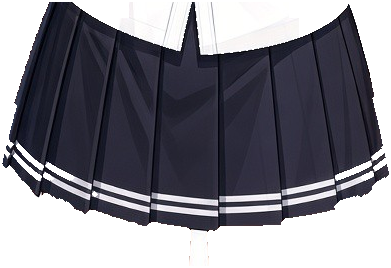
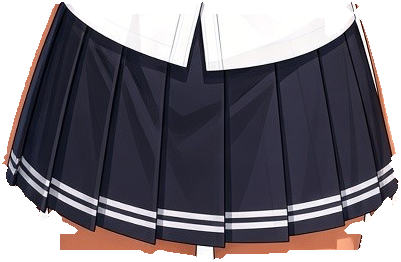
Re-cut flashing seam layers on the official idle pack.
Widen torso/bow into the shoulder caps, fill scalp under bangs, give
brow a coverage strip, extend skirt hem/crotch overlap, and restore
loafer inner edges. Other cut PNGs are unchanged. Default URL stays
the PNG puppet.

diff --git a/scripts/cut-rai-spine-layers.py b/scripts/cut-rai-spine-layers.py
@@ -30,7 +30,19 @@ STUDIO_CHROMA_MAX = 18
 FRINGE_LUMA_MIN = 224
 FRINGE_CHROMA_MAX = 24
 OVERLAP = 12  # px, within the 8–16 spec
+SEAM_OVERLAP = 16  # extra overlap for flashing joints (shoulders, hem, scalp, ankles)
 CX = 504  # idle body center (button / bow line)
+
+# Re-cut only these when seams flash — do not rewrite the rest of the pack.
+SEAM_LAYERS = [
+    "torso",
+    "bow",
+    "hair_front",
+    "brow",
+    "skirt",
+    "foot_l",
+    "foot_r",
+]
 
 REQUIRED = [
     "hair_back",
@@ -159,7 +171,62 @@ def close_holes(mask: np.ndarray, px: int = 2) -> np.ndarray:
     return ndimage.binary_closing(mask, iterations=px)
 
 
+def expand_foot_mask(orig: np.ndarray, mask: np.ndarray, x0: int, x1: int) -> np.ndarray:
+    """Include loafer pixels the studio-white fringe punch ate (inner edges)."""
+    r = orig[:, :, 0].astype(np.int16)
+    g = orig[:, :, 1].astype(np.int16)
+    b = orig[:, :, 2].astype(np.int16)
+    h, w = orig.shape[:2]
+    yy = np.arange(h)[:, None]
+    xx = np.arange(w)[None, :]
+    region = (yy >= 1592) & (yy < 1776) & (xx >= x0) & (xx < x1)
+    brown = (r > 40) & (r >= g - 8) & (r > b) & (g > 16) & (b < 135)
+    outline = (r < 95) & (g < 85) & (b < 95) & (yy > 1605)
+    return close_holes(mask | (region & (brown | outline)), 2)
+
+
+def expand_skirt_mask(orig: np.ndarray, mask: np.ndarray) -> np.ndarray:
+    """Keep hem navy + stripes, including fringe punch ate along the thigh line."""
+    r = orig[:, :, 0].astype(np.int16)
+    g = orig[:, :, 1].astype(np.int16)
+    b = orig[:, :, 2].astype(np.int16)
+    mx = np.maximum(np.maximum(r, g), b)
+    mn = np.minimum(np.minimum(r, g), b)
+    chroma = mx - mn
+    h, w = orig.shape[:2]
+    yy = np.arange(h)[:, None]
+    xx = np.arange(w)[None, :]
+    region = (yy >= 736) & (yy < 1048) & (xx > 275) & (xx < 735)
+    navy = region & (b + 12 >= r) & (mx < 105)
+    stripe = region & (yy >= 915) & (mn > 155) & (chroma < 55)
+    extra = navy | (stripe & dilate(navy, 8))
+    return close_holes(mask | extra, 3)
+
+
+def restore_from_original(orig: np.ndarray, punched: np.ndarray, mask: np.ndarray) -> np.ndarray:
+    out = punched.copy()
+    out[mask, :3] = orig[mask, :3]
+    out[mask, 3] = 255
+    return out
+    out = punched.copy()
+    out[mask, :3] = orig[mask, :3]
+    out[mask, 3] = 255
+    return out
+
+
 def crop_masked(src: np.ndarray, mask: np.ndarray, pad: int = 2) -> tuple[np.ndarray, tuple[int, int, int, int]]:
+    ys, xs = np.where(mask)
+    if len(xs) == 0:
+        raise SystemExit("empty mask")
+    h, w = src.shape[:2]
+    x0 = max(0, int(xs.min()) - pad)
+    y0 = max(0, int(ys.min()) - pad)
+    x1 = min(w, int(xs.max()) + 1 + pad)
+    y1 = min(h, int(ys.max()) + 1 + pad)
+    layer = np.zeros((y1 - y0, x1 - x0, 4), dtype=np.uint8)
+    local = mask[y0:y1, x0:x1]
+    layer[local] = src[y0:y1, x0:x1][local]
+    return layer, (x0, y0, x1, y1)
     ys, xs = np.where(mask)
     if len(xs) == 0:
         raise SystemExit(f"empty mask")
@@ -188,7 +255,7 @@ def classify(arr: np.ndarray) -> dict[str, np.ndarray]:
     xx = np.arange(w)[None, :]
 
     dark = sil & (mx < 100)
-    navy_zone = ((yy >= 730) & (yy <= 1025)) | ((yy >= 1235) & (yy <= 1670))
+    navy_zone = ((yy >= 730) & (yy <= 1055)) | ((yy >= 1235) & (yy <= 1670))
     cuff_zone = (yy >= 490) & (yy <= 575) & ((xx < 410) | (xx > 600))
     navy = sil & (b + 12 >= r) & (mx < 95) & (navy_zone | cuff_zone)
     eye_box = (yy >= 196) & (yy <= 252) & (xx >= 428) & (xx <= 612)
@@ -203,8 +270,8 @@ def classify(arr: np.ndarray) -> dict[str, np.ndarray]:
     button = sil & (r > 155) & (g > 115) & (b < 145) & (r > b + 25) & (yy > 410) & (yy < 760) & (xx > 470) & (xx < 535)
     shoe = sil & (r > 50) & (r > g) & (r > b + 12) & (g > 22) & (b < 115) & (yy > 1588) & (yy < 1770)
     sock = navy & (yy >= 1235)
-    skirt_navy = navy & (yy >= 730) & (yy <= 1025) & ~cuff_zone
-    hem = sil & (mn > 170) & (chroma < 40) & (yy >= 930) & (yy <= 1015) & (xx > 300) & (xx < 710)
+    skirt_navy = navy & (yy >= 730) & (yy <= 1055) & ~cuff_zone
+    hem = sil & (mn > 160) & (chroma < 50) & (yy >= 920) & (yy <= 1045) & (xx > 288) & (xx < 722)
 
     return {
         "sil": sil,
@@ -252,11 +319,14 @@ def build_masks(idle: np.ndarray, talk: np.ndarray) -> dict[str, np.ndarray]:
     scalp = hair & B(460, 118, 540, 162)
     ahoge = close_holes(ahoge | scalp, 1)
 
-    # --- hair front: bangs + cheek / shoulder locks (draw-order on top) ---
-    bangs = hair & B(390, 70, 650, 228)
-    lock_r = hair & B(275, 155, 430, 430)  # screen left lock (her right)
-    lock_l = hair & B(590, 155, 740, 430)
-    hair_front = close_holes(bangs | lock_r | lock_l, 2) & ~eye_box
+    # --- hair front: bangs + cheek / shoulder locks + scalp under bangs ---
+    bangs = hair & B(380, 60, 660, 235)
+    lock_r = hair & B(270, 150, 435, 435)  # screen left lock (her right)
+    lock_l = hair & B(585, 150, 745, 435)
+    # forehead / scalp fill so bangs do not flash skin gaps
+    scalp = (skin | hair) & B(395, 140, 635, 202)
+    hair_front = close_holes(bangs | lock_r | lock_l | scalp | dilate(bangs, 4), 3)
+    # do not punch a rectangular eye hole — that flashed white corners on the scalp
 
     # --- hair back: crown + nape (behind body) — no bow / shirt ---
     crown = hair & B(355, 40, 680, 230)
@@ -264,8 +334,7 @@ def build_masks(idle: np.ndarray, talk: np.ndarray) -> dict[str, np.ndarray]:
     hair_back = close_holes((crown | nape) & ~ahoge, 2)
     hair_back = hair_back & ~c["bow"] & ~c["shirt"]
     hair_back = hair_back | (hair_front & B(360, 90, 670, 220) & dilate(hair_back, OVERLAP))
-    hair_front = hair_front | (hair_back & B(390, 90, 650, 228) & dilate(hair_front, OVERLAP))
-    hair_front = hair_front & ~eye_box
+    hair_front = hair_front | (hair_back & B(380, 80, 660, 230) & dilate(hair_front, SEAM_OVERLAP))
 
     # --- head: cranium + eyes + ears; no jaw / mouth / hair volume ---
     face_skin = skin & B(400, 165, 630, 300) & ~hair
@@ -277,12 +346,12 @@ def build_masks(idle: np.ndarray, talk: np.ndarray) -> dict[str, np.ndarray]:
     head = close_holes((face_skin | eyes | ear_r | ear_l | earring) & ~mouth_hole, 2)
     head = head | (skin & B(478, 248, 554, 264))
 
-    # --- brow: just the scowl lines, not the bangs ---
-    brow_dark = sil & (idle[:, :, 0] < 80) & (idle[:, :, 1] < 70)
-    brow = close_holes(
-        (brow_dark & (B(442, 184, 498, 204) | B(534, 184, 590, 204))),
-        1,
-    )
+    # --- brow: scowl strokes plus a skin strip (not two tight boxes) ---
+    brow_dark = sil & (idle[:, :, 0] < 90) & (idle[:, :, 1] < 80)
+    brow_core = brow_dark & B(425, 174, 612, 214)
+    brow = close_holes(dilate(brow_core, 5), 2)
+    brow = brow | (skin & B(432, 176, 604, 214))
+    brow = brow & ~eye_box
 
     # --- mouth ---
     mouth_box = B(466, 248, 562, 318)
@@ -294,16 +363,21 @@ def build_masks(idle: np.ndarray, talk: np.ndarray) -> dict[str, np.ndarray]:
     neck = neck | (skin & B(470, 300, 560, 330))  # chin / jaw overlap
 
     # --- bow ---
-    bow = close_holes(dilate(c["bow"], 1), 1)
+    bow = close_holes(dilate(c["bow"], 3), 2)
+    # keep a collar overlap so the knot does not flash shirt-white
+    bow = bow | (shirt & B(468, 368, 558, 432) & dilate(c["bow"], 8))
 
-    # --- torso: shirt + buttons, sleeves cropped off ---
-    torso_x = B(392, 360, 622, 820)
-    sleeves_off = ~((yy < 575) & ((xx < 400) | (xx > 618)))
-    collar = shirt & B(430, 348, 590, 412)
-    torso = close_holes(((shirt | c["button"]) & torso_x & sleeves_off) | collar, 2)
-    torso = torso & ~dilate(bow, 1)
-    # waist overlap with skirt
-    torso = torso | (c["skirt_navy"] & B(400, 768, 620, 792))
+    # --- torso: shirt + buttons; sleeves cropped but shoulder caps kept ---
+    collar = shirt & B(420, 340, 600, 420)
+    torso_core = (shirt | c["button"] | collar) & B(340, 338, 676, 825)
+    # hanging short sleeves only (below the shoulder cap), not the shoulder itself
+    hanging_sleeve = (yy >= 468) & ((xx < 372) | (xx > 644))
+    far_sleeve = (xx < 332) | (xx > 684)
+    torso = close_holes(torso_core & ~hanging_sleeve & ~far_sleeve, 3)
+    torso = torso | ((shirt | c["button"]) & B(348, 360, 668, 500) & ~far_sleeve)
+    torso = torso & ~hair & (yy >= 348)
+    # waist overlap with skirt — do not carve the bow out (bow draws on top)
+    torso = torso | (c["skirt_navy"] & B(390, 752, 630, 800))
 
     # --- arms (her right = screen left = wave / scold) ---
     sleeve_r = shirt & B(278, 400, 412, 575)
@@ -323,10 +397,24 @@ def build_masks(idle: np.ndarray, talk: np.ndarray) -> dict[str, np.ndarray]:
     forearm_l = forearm_l | (upper_arm_l & B(618, 690 - OVERLAP, 730, 690)) | (hand_l & B(648, 850, 730, 850 + OVERLAP))
 
     # --- skirt ---
-    skirt = close_holes((c["skirt_navy"] | c["hem"]) & B(288, 752, 720, 1018), 2)
-    skirt = skirt & ~dilate(hand_r | hand_l, 3)
-    skirt = skirt | (torso & B(420, 768, 600, 812))
-    skirt = skirt | (shirt & B(430, 752, 590, 800))
+    navy_near = dilate(c["skirt_navy"], 10)
+    hem = c["hem"] & navy_near  # white stripes only, not the crotch gap
+    skirt = close_holes((c["skirt_navy"] | hem | dilate(c["skirt_navy"], 6)) & B(275, 738, 735, 1048), 3)
+    r = idle[:, :, 0].astype(np.int16)
+    g = idle[:, :, 1].astype(np.int16)
+    bch = idle[:, :, 2].astype(np.int16)
+    mn = np.minimum(np.minimum(r, g), bch)
+    chroma = np.maximum(np.maximum(r, g), bch) - mn
+    leftover_white = sil & (mn > 228) & (chroma < 18) & ~navy_near
+    skirt = skirt & ~leftover_white
+    # fists only — do not eat the hem corners
+    skirt = skirt & ~dilate(hand_r & B(270, 900, 355, 1058), 2)
+    skirt = skirt & ~dilate(hand_l & B(665, 890, 735, 1058), 2)
+    skirt = skirt | (torso & B(400, 752, 620, 816))
+    skirt = skirt | (shirt & B(420, 748, 600, 808))
+    skirt = skirt | (c["skirt_navy"] & B(390, 950, 620, 1045))
+    skirt = skirt | (dilate(c["skirt_navy"], 12) & B(400, 968, 610, 1032) & sil & ~leftover_white)
+    skirt = skirt | (skin & B(355, 968, 660, 968 + SEAM_OVERLAP))
 
     # --- legs ---
     thigh_r = close_holes(skin & B(355, 968, 512, 1315), 2)
@@ -337,10 +425,17 @@ def build_masks(idle: np.ndarray, talk: np.ndarray) -> dict[str, np.ndarray]:
     calf_l = close_holes((skin | c["sock"]) & B(520, 1268, 640, 1655), 2)
     calf_r = calf_r | (thigh_r & B(378, 1315 - OVERLAP, 500, 1315))
     calf_l = calf_l | (thigh_l & B(520, 1315 - OVERLAP, 640, 1315))
-    foot_r = close_holes(c["shoe"] & B(400, 1592, 512, 1768), 2)
-    foot_l = close_holes(c["shoe"] & B(508, 1592, 630, 1768), 2)
-    foot_r = foot_r | (calf_r & B(400, 1638, 512, 1638 + OVERLAP))
-    foot_l = foot_l | (calf_l & B(508, 1638, 630, 1638 + OVERLAP))
+    # loafers: full silhouette including dark outlines, not just brown fill
+    foot_r = close_holes(sil & B(392, 1586, 516, 1774) & (xx < 512) & (yy >= 1596), 3)
+    foot_l = close_holes(sil & B(500, 1584, 642, 1774) & (xx >= 504) & (yy >= 1596), 3)
+    foot_r = (dilate(foot_r, 2) & sil & B(390, 1584, 520, 1776) & (xx < 514)) | (
+        c["sock"] & B(395, 1618, 502, 1618 + SEAM_OVERLAP)
+    )
+    foot_l = (dilate(foot_l, 2) & sil & B(498, 1582, 644, 1776) & (xx >= 502)) | (
+        c["sock"] & B(518, 1618, 636, 1618 + SEAM_OVERLAP)
+    )
+    foot_r = close_holes(foot_r, 2)
+    foot_l = close_holes(foot_l, 2)
 
     return {
         "hair_back": hair_back,
@@ -515,6 +610,28 @@ def local_offset(name: str) -> tuple[float, float]:
         return wx, wy
     px, py = BONE_WORLD[parent]
     return wx - px, wy - py
+
+
+def patch_skeleton(meta: dict[str, dict]) -> None:
+    """Update attachment size/offset for recut layers only. Keep other slots."""
+    skel = json.loads(SKEL_PATH.read_text())
+
+    def att_fields(layer: str) -> dict:
+        x0, y0, x1, y1 = meta[layer]["bbox"]
+        px, py = PIVOTS[layer]
+        w, h = x1 - x0, y1 - y0
+        return {
+            "width": w,
+            "height": h,
+            "x": round((x0 + w / 2) - px, 2),
+            "y": round((y0 + h / 2) - py, 2),
+        }
+
+    for slot in skel["slots"]:
+        for name, att in slot.get("attachments", {}).items():
+            if name in meta:
+                att.update(att_fields(name))
+    SKEL_PATH.write_text(json.dumps(skel, indent=2) + "\n")
 
 
 def write_skeleton(meta: dict[str, dict]) -> None:
@@ -738,7 +855,19 @@ def label_still(arr: np.ndarray, title: str) -> Image.Image:
     return out
 
 
-def main() -> int:
+def main(argv: list[str] | None = None) -> int:
+    only = None
+    args = list(sys.argv[1:] if argv is None else argv)
+    if args[:1] == ["--only"]:
+        only = set(args[1:] or SEAM_LAYERS)
+        unknown = only - set(REQUIRED)
+        if unknown:
+            print("unknown layers", sorted(unknown), file=sys.stderr)
+            return 2
+    elif args:
+        print("usage: cut-rai-spine-layers.py [--only [layer ...]]", file=sys.stderr)
+        return 2
+
     if not IDLE_PATH.is_file():
         print("missing", IDLE_PATH, file=sys.stderr)
         return 1
@@ -749,26 +878,36 @@ def main() -> int:
     talk = align_talk(idle, talk_p)
 
     masks = build_masks(idle, talk)
+    masks["foot_r"] = expand_foot_mask(idle_rgb, masks["foot_r"], 386, 520)
+    masks["foot_l"] = expand_foot_mask(idle_rgb, masks["foot_l"], 496, 646)
+    masks["skirt"] = expand_skirt_mask(idle_rgb, masks["skirt"])
     OUT_DIR.mkdir(parents=True, exist_ok=True)
     meta: dict[str, dict] = {}
-    layers: dict[str, tuple[np.ndarray, tuple[int, int, int, int]]] = {}
+    write_names = [n for n in REQUIRED if only is None or n in only]
 
-    for name in REQUIRED:
+    for name in write_names:
         src = talk if name == "mouth_open" else idle
         mask = masks[name]
+        if name in ("foot_l", "foot_r", "skirt"):
+            src = restore_from_original(idle_rgb, idle, mask)
         n = int(mask.sum())
         if n < 40:
             print(f"WARNING {name} only {n} pixels", file=sys.stderr)
         img, bbox = crop_masked(src, mask)
         Image.fromarray(img).save(OUT_DIR / f"{name}.png", optimize=True)
-        layers[name] = (img, bbox)
         meta[name] = {"bbox": bbox, "pixels": n, "pivot": PIVOTS[name]}
         print(f"{name:16s} {n:7d}px  bbox={bbox}")
 
-    write_skeleton(meta)
+    if only is None:
+        write_skeleton(meta)
+    else:
+        patch_skeleton(meta)
     skel = json.loads(SKEL_PATH.read_text())
     still = runtime_composite(skel)
-    label_still(still, "Glance test — assembled official cut layers").save(COMPOSITE_PATH, optimize=True)
+    title = "Glance test — assembled official cut layers"
+    if only:
+        title = "Glance test — seam re-cut (shoulders / bangs / brow / hem / loafers)"
+    label_still(still, title).save(COMPOSITE_PATH, optimize=True)
     print("wrote", COMPOSITE_PATH)
     print("wrote", SKEL_PATH)
     return 0
